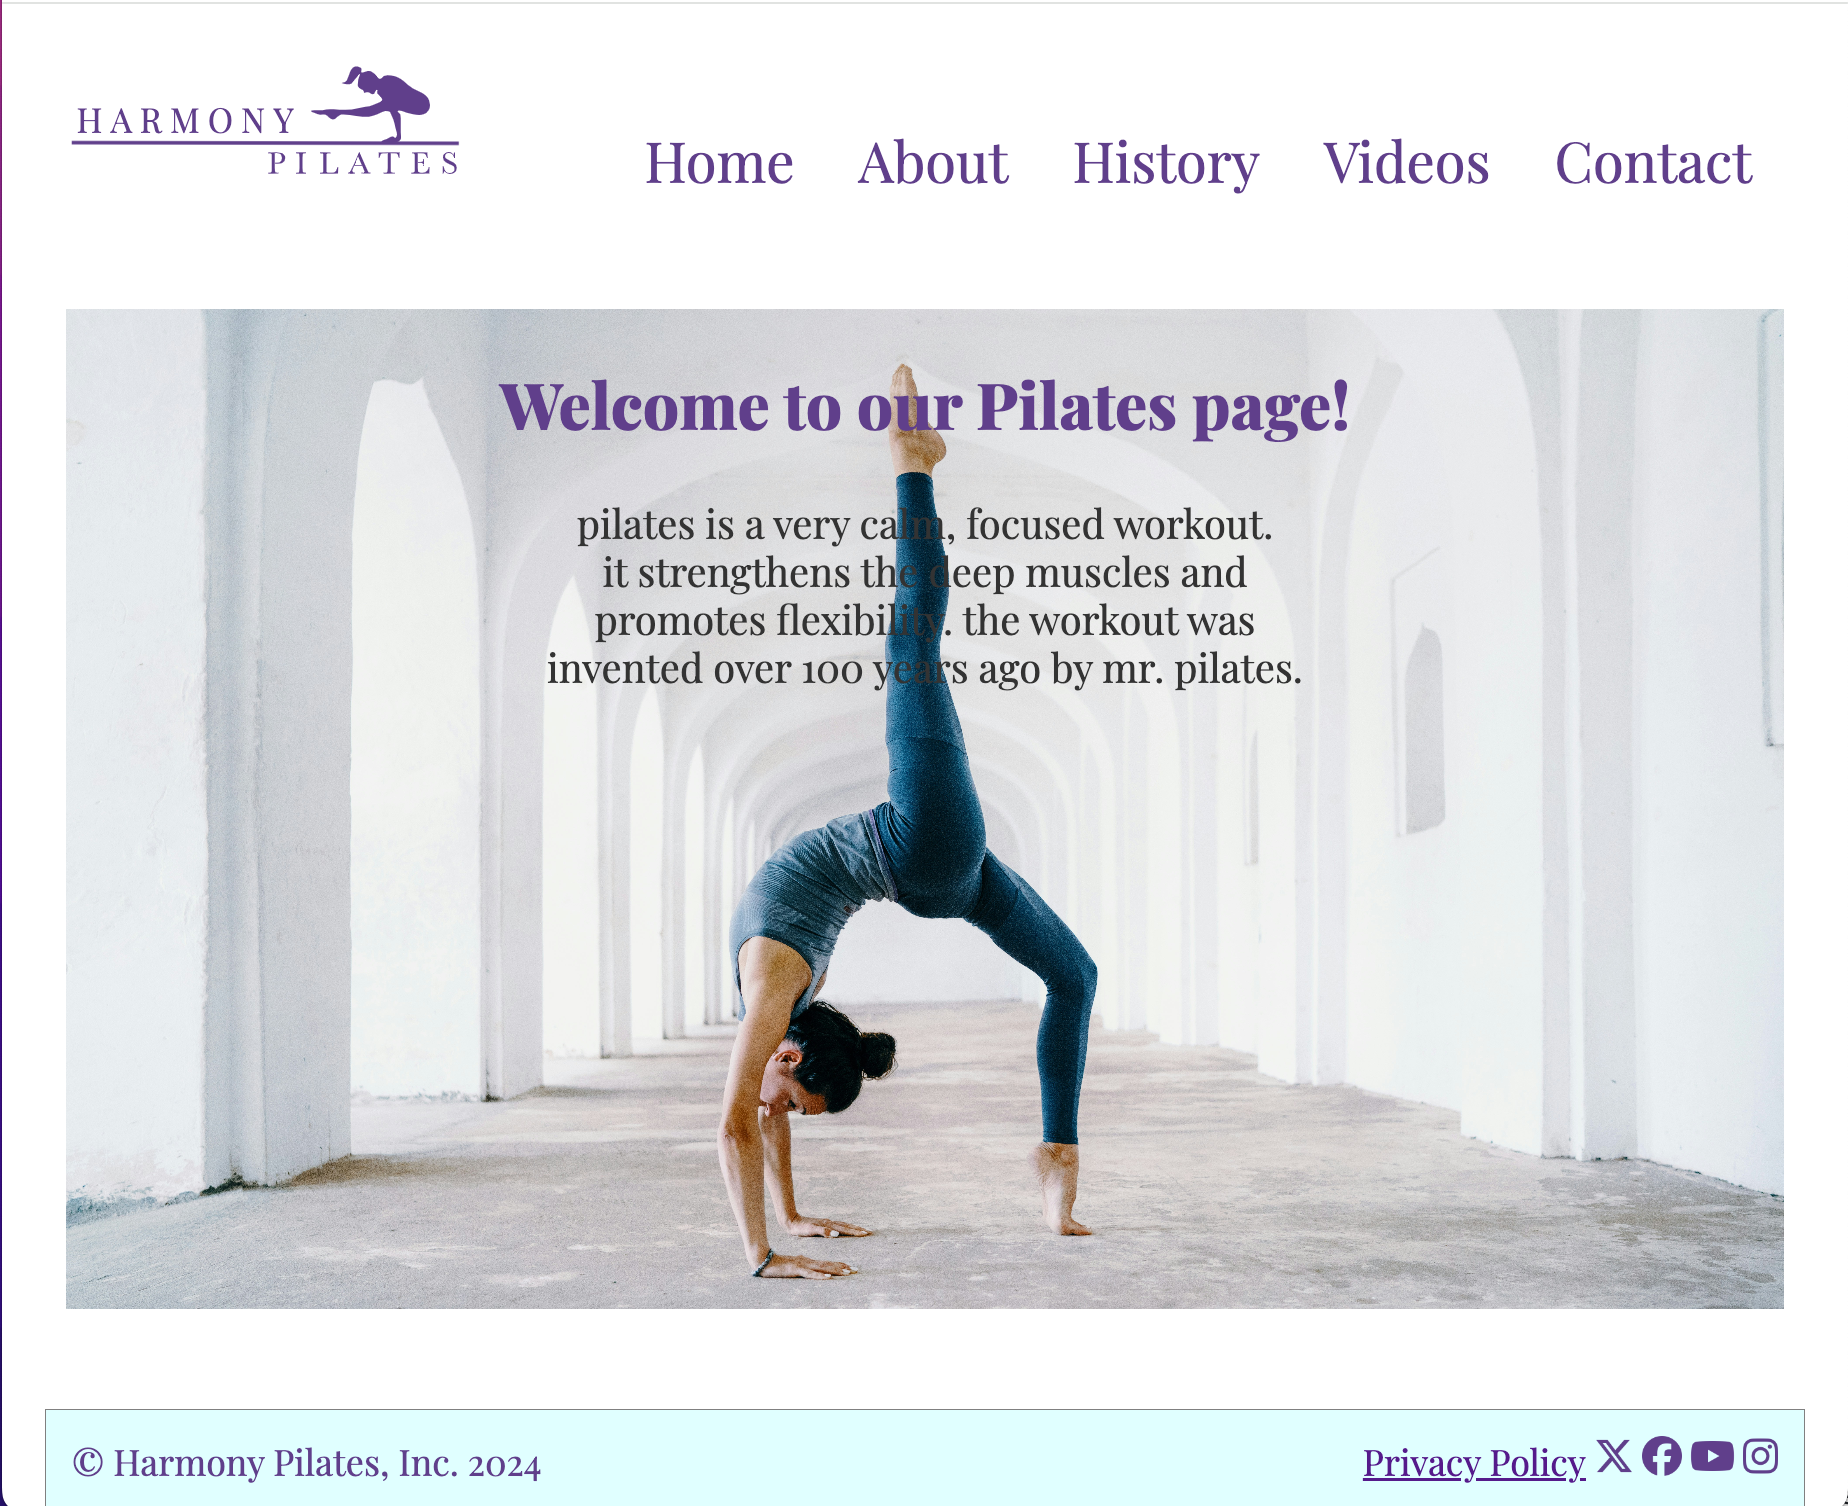
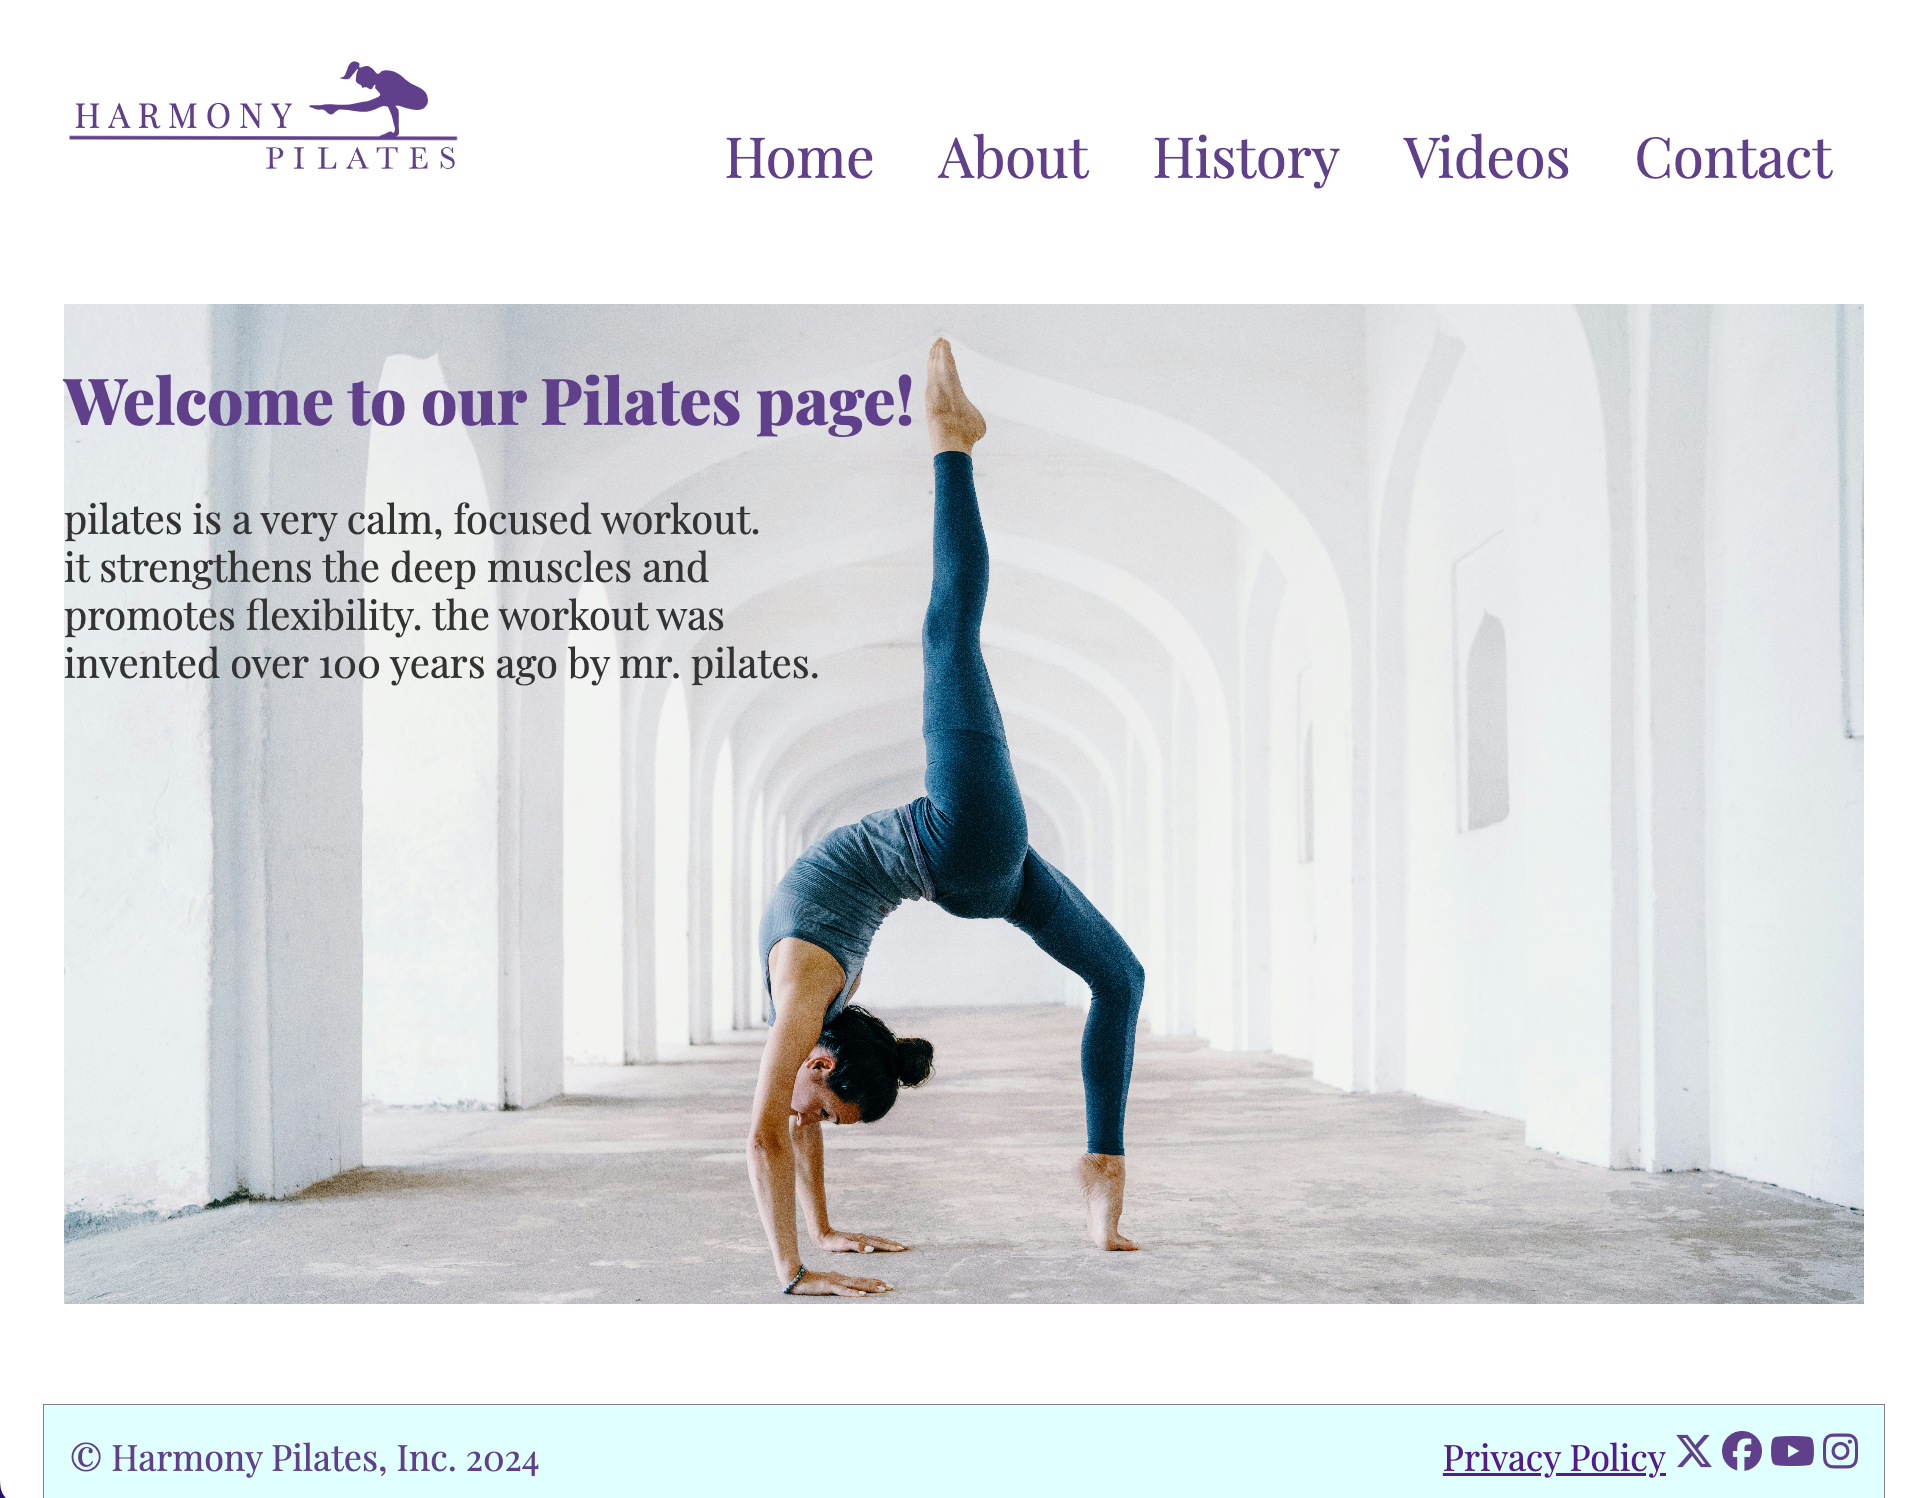
changes in readme

diff --git a/assets/css/style.css b/assets/css/style.css
@@ -167,7 +167,7 @@ nav ul li a:hover {
     line-height: 42px;
     font-size: 32px;
     color: var(--primary-color);
-    text-align: center;
+    text-align: left;
 
 }
 
@@ -176,7 +176,7 @@ nav ul li a:hover {
     font-size: 20px;
     line-height: 24px;
     text-transform: lowercase;
-    text-align: center;
+    text-align: left;
 }
 
 .vertical {
@@ -333,8 +333,6 @@ input {
 /* Footer */
 
 footer {
-    -webkit-appearance: none;
-    -moz-appearance: none;
     appearance: none;
     width: 100%;
     padding: 10px;

diff --git a/README.md b/README.md
@@ -1,7 +1,7 @@
 # pilates-website
 The project "Harmony-Pilates" aims to promote an active lifestyle, particularly targeting individuals who work from home and spend prolonged periods sitting. Pilates, a form of exercise that involves controlled movements, not only strengthens muscles but also provides effective body stretching and enhances mental stability. It emphasizes the significance of movement in leading a fulfilling life. With this website, my intention is to raise awareness and understanding of pilates among people. By exploring the website, users will gain insights into the importance of balance and vitality in their lives.
 
-Visit the deployed website here → Harmony Pilates - (https://github.com/Ann-Anahit/pilates-website)
+Visit the deployed website here → [Harmony Pilates Website](https://github.com/Ann-Anahit/pilates-website)
 
 ## Content
 
@@ -146,6 +146,35 @@ On this page is a text about the privacy policy of the page.
 - [Favicon.io](https://favicon.io/) to create favicon.
 - [Am I Responsive?](https://ui.dev/amiresponsive) to display the website image across various devices.
 - [Font Awesome](https://fontawesome.com/) to add icons on the website.
-- [Pixelied](https://pixelied.com/) to convert images to WebP.
-- [Tinify](https://tinypng.com/) to compress images.
-- [Appetize.io](https://appetize.io/) to simulate the iOS environment.
+- [Unsplash](https://unsplash.com/de) and [Vecteezy]https://de.vecteezy.com/ to get images.
+
+[Back to top](<#content>)
+
+## Deployment, Fork and Clone
+
+### Deployment
+
+1. Log in to GitHub.
+2. Go to the repository for the project.
+3. Click the settings button.
+4. Select **Pages** in the left navigation menu under Code and Automation.
+5. From the source dropdown select main branch and root. Press the save button.
+6. The site has been deployed. It may take a few minutes before the site goes live.
+
+### How to Fork
+
+1. Log in to GitHub.
+2. Go to the repository for the project.
+3. Click the Fork button in the top right corner.
+
+### How to Clone
+
+1. Log in to GitHub.
+2. Go to the repository for the project.
+3. Click on the **green code button** and select if you would like to clone with HTTPS, SSH or GitHub CLI and copy the link below.
+4. Navigate to the directory where you want to clone the repository and open terminal.
+5. Type *git clone* into the terminal and paste the link you have from number 3. Press enter. This command will download the entire repository to your local machine.
+
+[Back to top](<#content>)
+
+
